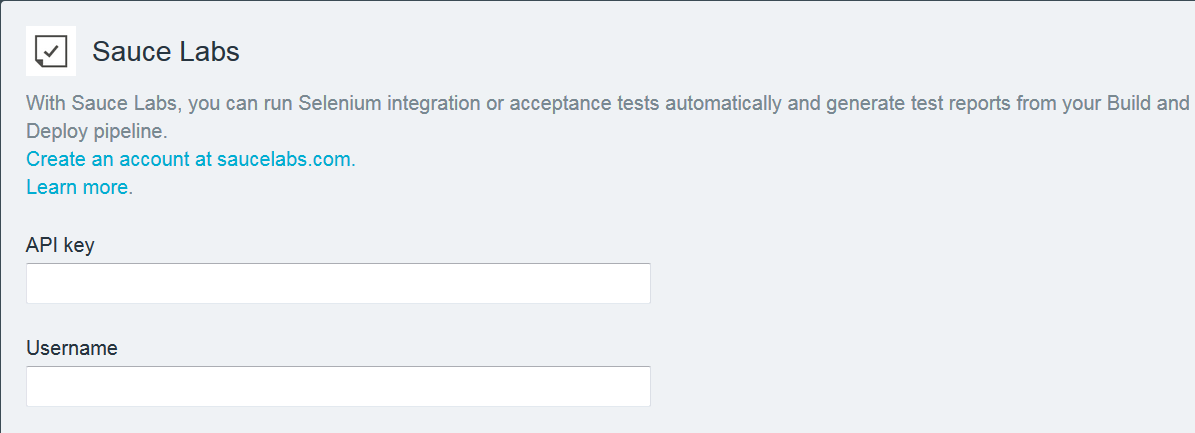
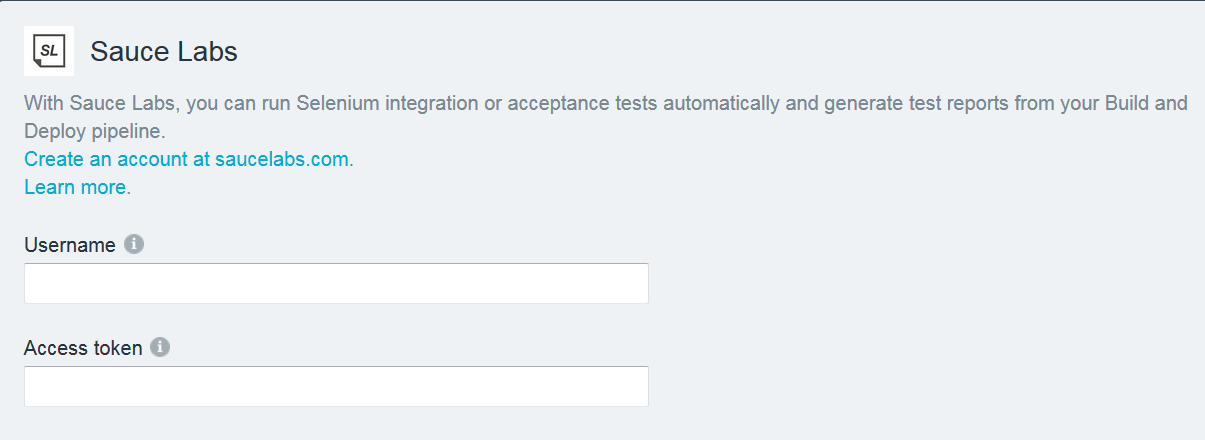
Updates to Sidecar how-to docs.

diff --git a/docs/integrations/saucelabs_auto/index.md b/docs/integrations/saucelabs_auto/index.md
@@ -1,6 +1,6 @@
 # Integrating Sauce Labs with Bluemix DevOps Services <em><span style="color: #35b2d5">BETA</span></em>
 
-###### Last updated: 06 October 2015
+###### Last updated: 07 October 2015
 
 Sauce Labs provides automated functional tests that run Java™ or JavaScript tests against your web or mobile app as part of a continuous delivery process. You can integrate Sauce Labs with your IBM&reg; Bluemix&trade; DevOps Services project so that a Sauce Labs test suite can run as a test job in your Build &amp; Deploy pipeline. These tests can provide valuable flow control for your project as they act as gates to prevent the deployment of bad code..
 
@@ -62,9 +62,9 @@ Before you can configure the Sauce Labs integration, you must enable your projec
 2. Click **SAUCE LABS**.
 ![Sauce Labs integration page][4]
 
-3. Type the API key for your Sauce Labs account. You can [find the key in the lower-left corner of your Sauce Labs account page](https://saucelabs.com/account).
+3. Type the user name for your Sauce Labs account. You can [find your user name in the welcome message at the top of your Sauce Labs account page](https://saucelabs.com/account).
 
-4. Type the user name for your Sauce Labs account. You can [find your user name in the welcome message at the top of your Sauce Labs account page](https://saucelabs.com/account).
+4. Type the access token for your Sauce Labs account. You can [find the token in the lower-left corner of your Sauce Labs account page](https://saucelabs.com/account).
 
 5. Click **SAVE**.
 

diff --git a/docs/integrations/slack_auto/index.md b/docs/integrations/slack_auto/index.md
@@ -1,6 +1,6 @@
 # Integrating Slack with Bluemix DevOps Services <em><span style="color: #35b2d5">BETA</span></em>
 
-###### Last updated: 06 October 2015
+###### Last updated: 07 October 2015
 
 Slack provides real-time messaging for team communications. You can integrate Slack with your IBM&reg; Bluemix&trade; DevOps Services project so that notifications about build results from your Build &amp; Deploy pipeline are posted on a Slack channel. 
 
@@ -62,7 +62,7 @@ Before you can configure the Slack integration, you must enable your project to 
 2. Click **SLACK**.
 ![Slack integration page][4]
 
-3. Type the authentication token for your Slack account. For instructions about how find this token, see [Slack authentication](https://api.slack.com/web#authentication).
+3. Type the API authentication token for your Slack account. For instructions about how find this token, see [Slack authentication](https://api.slack.com/web#authentication).
 
 4. Type the name of the Slack channel that you want pipeline notifications to be sent to. You can use an existing, archived, or new channel. If the specified Slack channel doesn't exist, it is created. If the specified Slack channel is currently archived, it is reactivated.
 
